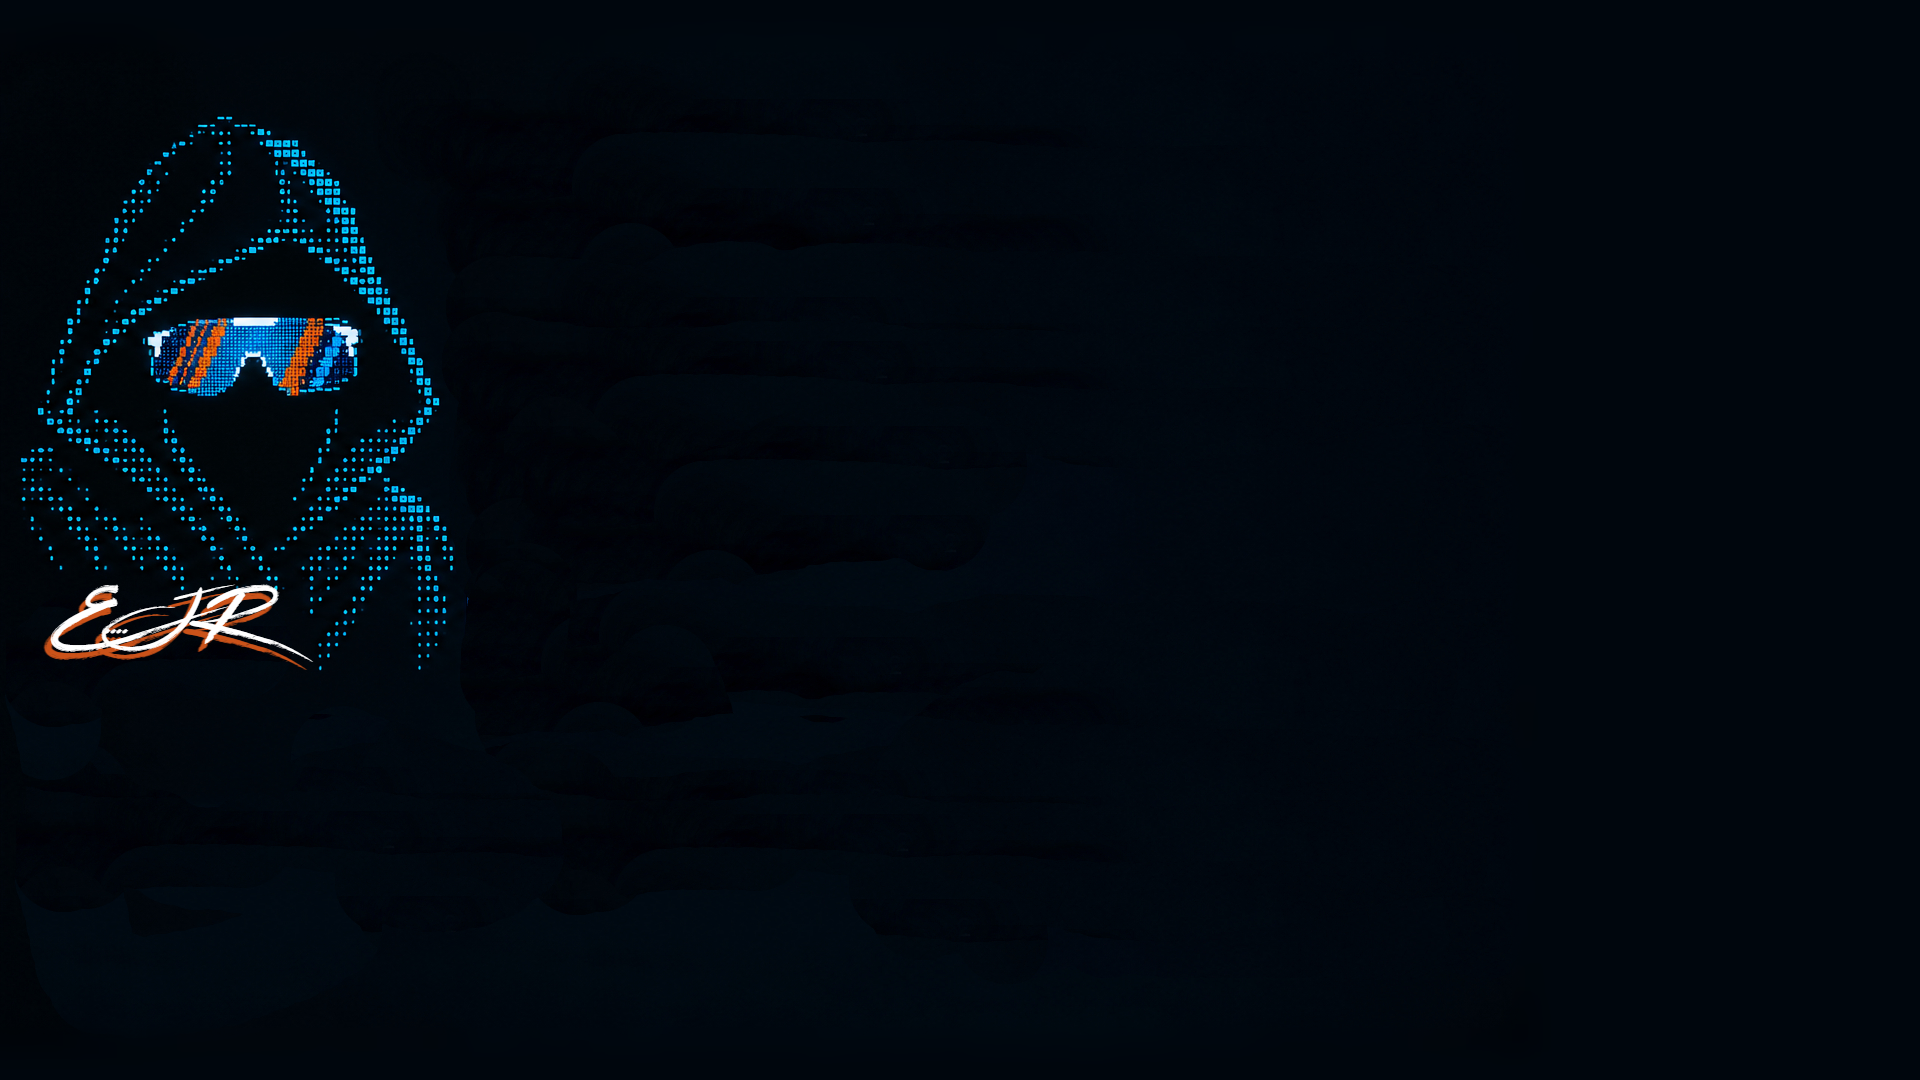
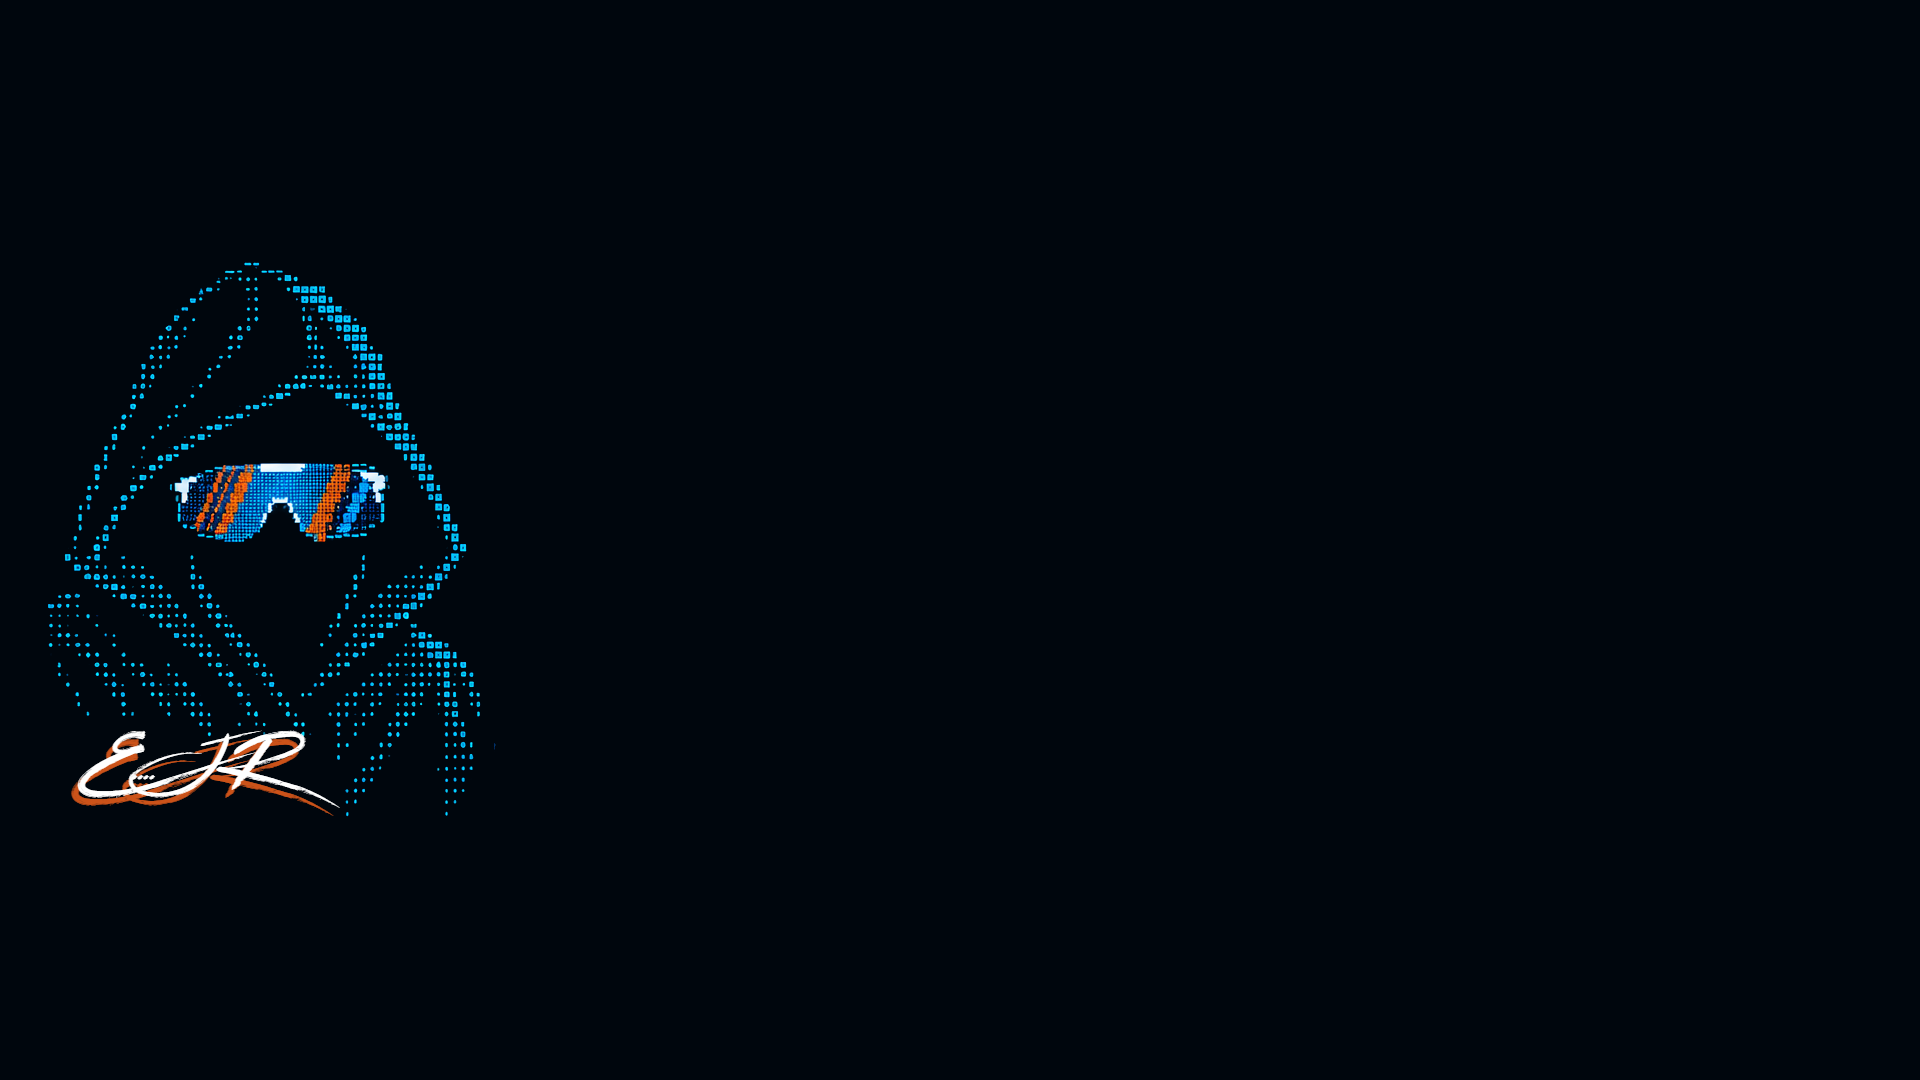
grub: eliminar duplicados del menu, reorganizar en submenu, tema v2
Tres parejas de scripts byte-identicos en /etc/grub.d/ (una copia sin
dueno mas vieja, una con dueno mas nueva) hacian que Windows, Shutdown
y Restart aparecieran duplicados y os-prober corriera dos veces.
Se eliminaron las tres copias sin dueno (riesgo cero, nada las
gestiona); los originales con dueno no se tocaron porque ninguno esta
declarado backup file.

Se agregaron tres scripts propios sin dueno para reordenar el menu:
Shutdown/Restart justo despues de Windows, y todo lo demas (fwupd,
custom, el Shutdown/Restart redundante, snapshots, memtest) anidado
en un submenu "More Options". UEFI Firmware Settings queda top-level
a proposito, para no depender de deshabilitar un script con dueno.

Verificado con grub-script-check (no con conteo manual de llaves, que
no detecta indentacion de menuentry anidados).

Tema actualizado a v2 (menu centrado, background recompuesto).

diff --git a/grub/README.md b/grub/README.md
@@ -97,11 +97,96 @@ GRUB prueba cada valor en orden hasta que el firmware soporte uno. Si
 bits; si tampoco, cae a `auto` como último recurso — nunca se queda sin menú
 por falta de un modo de video.
 
+## Tema v2 (menú centrado, título propio)
+
+`astronaut-ejr` se actualizó a v2: `background.png` recompuesto, menú centrado
+(antes iba a la derecha), y un `label` con el título "GRUB OS SELECTOR". Sigue
+siendo 1920×1080, sin reescalar. Reemplazo directo — no coexiste con v1.
+
+## Menú duplicado: tres parejas de scripts idénticos
+
+Además del tema, el menú mostraba **Windows, Shutdown y Restart duplicados**,
+y `os-prober` corría dos veces en cada regeneración. Causa, con evidencia:
+
+`/etc/grub.d/` tenía tres parejas de archivos **byte-idénticos** (`diff` sin
+salida en los tres casos) — uno sin dueño (más viejo) y uno con dueño de
+paquete (más nuevo), ambos ejecutándose y emitiendo la misma entrada dos
+veces, porque `grub-mkconfig` corre **todo** archivo ejecutable en
+`/etc/grub.d/` y concatena su salida (a diferencia de `/etc/default/grub.d/`,
+aquí no hay "el último gana": cada script que corre *añade* contenido, no
+sobrescribe el de otro):
+
+| Duplicado sin dueño (eliminado) | Original con dueño (intacto) |
+|---|---|
+| `15_os-prober` (9-nov-2025) | `30_os-prober` (`grub`) |
+| `16_custom_leave_options` (1-oct-2025) | `61_custom_leave_options` (`garuda-common-settings`) |
+| `90_uefi-firmware` (28-oct-2025) | `30_uefi-firmware` (`grub`) |
+
+Ninguno de los tres archivos con dueño (`30_os-prober`, `61_custom_leave_options`,
+`30_uefi-firmware`) está declarado *Backup File* por su paquete — así que
+modificarlos o quitarles el permiso de ejecución no está garantizado a
+sobrevivir la próxima actualización de ese paquete. Por eso **no se tocó
+ninguno**: se borraron solo los tres duplicados sin dueño (riesgo cero,
+permanente, nada los gestiona) y se dejaron los originales corriendo tal
+cual.
+
+**`garuda-common-settings` no se puede desinstalar** para eliminar la causa de
+raíz (como sí se hizo con `grub-theme-garuda`): es dependencia dura de
+`garuda-hyprland-settings` (`Required By` lo confirma). La estrategia aquí es
+distinta a la del tema — no eliminar la causa, sino reordenar/ocultar su
+efecto sin tocarla.
+
+## Reorganización del menú (scripts propios, sin dueño)
+
+Orden pedido: `Arch Linux` (default) → `Windows` → `UEFI Firmware Settings` →
+`Shutdown` → `Restart` → todo lo demás dentro de un submenú `More Options`.
+
+Tres archivos nuevos en `/etc/grub.d/`, todos sin dueño, todos ejecutables:
+
+* **`31_ejr_leave_options`** — copia propia de las entradas Shutdown/Restart,
+  numerada para correr justo después de `30_os-prober`/`30_uefi-firmware`.
+  El original `61_custom_leave_options` (con dueño) sigue corriendo también
+  — su salida (un segundo Shutdown/Restart, redundante) queda oculta dentro
+  del submenú de abajo en vez de aparecer arriba.
+* **`35_ejr_submenu_open`** — emite `submenu "More Options" {`
+* **`95_ejr_submenu_close`** — emite `}`
+
+Todo lo que cae entre 35 y 95 alfabéticamente (`35_fwupd`, `40_custom`,
+`41_custom`, `61_custom_leave_options` redundante, `70_snapshots-btrfs`,
+`80_memtest86+`) queda anidado dentro de `More Options`, sin haber tocado
+ninguno de esos scripts — el bloque `submenu { }` de GRUB puede abarcar la
+salida concatenada de varios scripts distintos, no tiene que ser un solo
+archivo.
+
+**Sin tilde a propósito** ("More Options", no "Más Opciones"): las fuentes
+`.pf2` del tema se generaron con `grub-mkfont` y no está confirmado que
+incluyan glifos acentuados — un carácter ausente no da error, simplemente no
+se dibuja, y solo se vería al reiniciar.
+
+**Decisión consciente: `UEFI Firmware Settings` queda top-level, fuera del
+submenú.** Meterlo dentro requeriría deshabilitar `30_uefi-firmware` (con
+dueño, sin backup declarado) — cambiar un problema ya resuelto por una
+vigilancia permanente, para ocultar una entrada que casi nunca se ve (solo
+aparece si el firmware soporta `fwsetup --is-supported`). No compensa.
+
+**`'Garuda Linux snapshots'` sigue diciendo "Garuda"** — es texto literal
+dentro de `70_snapshots-btrfs`, no usa la variable `$GRUB_DISTRIBUTOR`. No es
+un fallo del blindaje, ese script simplemente no lee esa variable para su
+propio título.
+
+**Verificación antes de reiniciar:** `grub-script-check` (herramienta oficial
+de GRUB para validar sintaxis) confirmado con salida limpia y código de
+salida `0` — el archivo generado es sintácticamente válido. Un conteo manual
+de llaves de cierre (`grep -c "^}"`) **no sirve** para esto: no captura las
+llaves indentadas de `menuentry` anidados dentro de submenús, así que un
+conteo bajo no significa desbalance real. Usar siempre `grub-script-check`.
+
 ## Inventario
 
-* `astronaut-ejr/` — tema completo, copia real desde `/boot/grub/themes/astronaut-ejr/`
+* `astronaut-ejr/` — tema completo v2, copia real desde `/boot/grub/themes/astronaut-ejr/`
 * `grub` — copia de `/etc/default/grub` (sin el fragmento; el fragmento vive aparte)
 * `zz-ejr-grub.cfg` — el fragmento de blindaje, copia de `/etc/default/grub.d/zz-ejr-grub.cfg`
+* `grub.d/31_ejr_leave_options`, `grub.d/35_ejr_submenu_open`, `grub.d/95_ejr_submenu_close` — los tres scripts propios de reorganización del menú, copias de `/etc/grub.d/`
 
 ## Rutas sin dueño
 
@@ -124,8 +209,17 @@ por falta de un modo de video.
 ```bash
 sudo cp -r astronaut-ejr /boot/grub/themes/astronaut-ejr
 sudo cp zz-ejr-grub.cfg /etc/default/grub.d/zz-ejr-grub.cfg
+sudo cp grub.d/31_ejr_leave_options grub.d/35_ejr_submenu_open grub.d/95_ejr_submenu_close /etc/grub.d/
+sudo chmod +x /etc/grub.d/31_ejr_leave_options /etc/grub.d/35_ejr_submenu_open /etc/grub.d/95_ejr_submenu_close
 sudo grub-mkconfig -o /boot/grub/grub.cfg
+sudo grub-script-check /boot/grub/grub.cfg
 ```
+
+Revisa también si la máquina nueva tiene duplicados propios de
+`os-prober`/`custom_leave_options`/`uefi-firmware` en `/etc/grub.d/` antes de
+copiar estos scripts — la causa (una copia manual vieja sin dueño, sin borrar
+tras una actualización del paquete) puede repetirse en cualquier instalación
+de Garuda con historial similar.
 
 Verificar:
 
@@ -150,7 +244,10 @@ sobre `/etc/default/grub` (inofensivo gracias al fragmento, pero innecesario).
 ```bash
 sudo cp -r astronaut-ejr /boot/grub/themes/astronaut-ejr
 sudo cp zz-ejr-grub.cfg /etc/default/grub.d/zz-ejr-grub.cfg
+sudo cp grub.d/31_ejr_leave_options grub.d/35_ejr_submenu_open grub.d/95_ejr_submenu_close /etc/grub.d/
+sudo chmod +x /etc/grub.d/31_ejr_leave_options /etc/grub.d/35_ejr_submenu_open /etc/grub.d/95_ejr_submenu_close
 sudo grub-mkconfig -o /boot/grub/grub.cfg
+sudo grub-script-check /boot/grub/grub.cfg
 ```
 
 Si el sistema no arranca bien tras un cambio manual, desde el menú de GRUB
